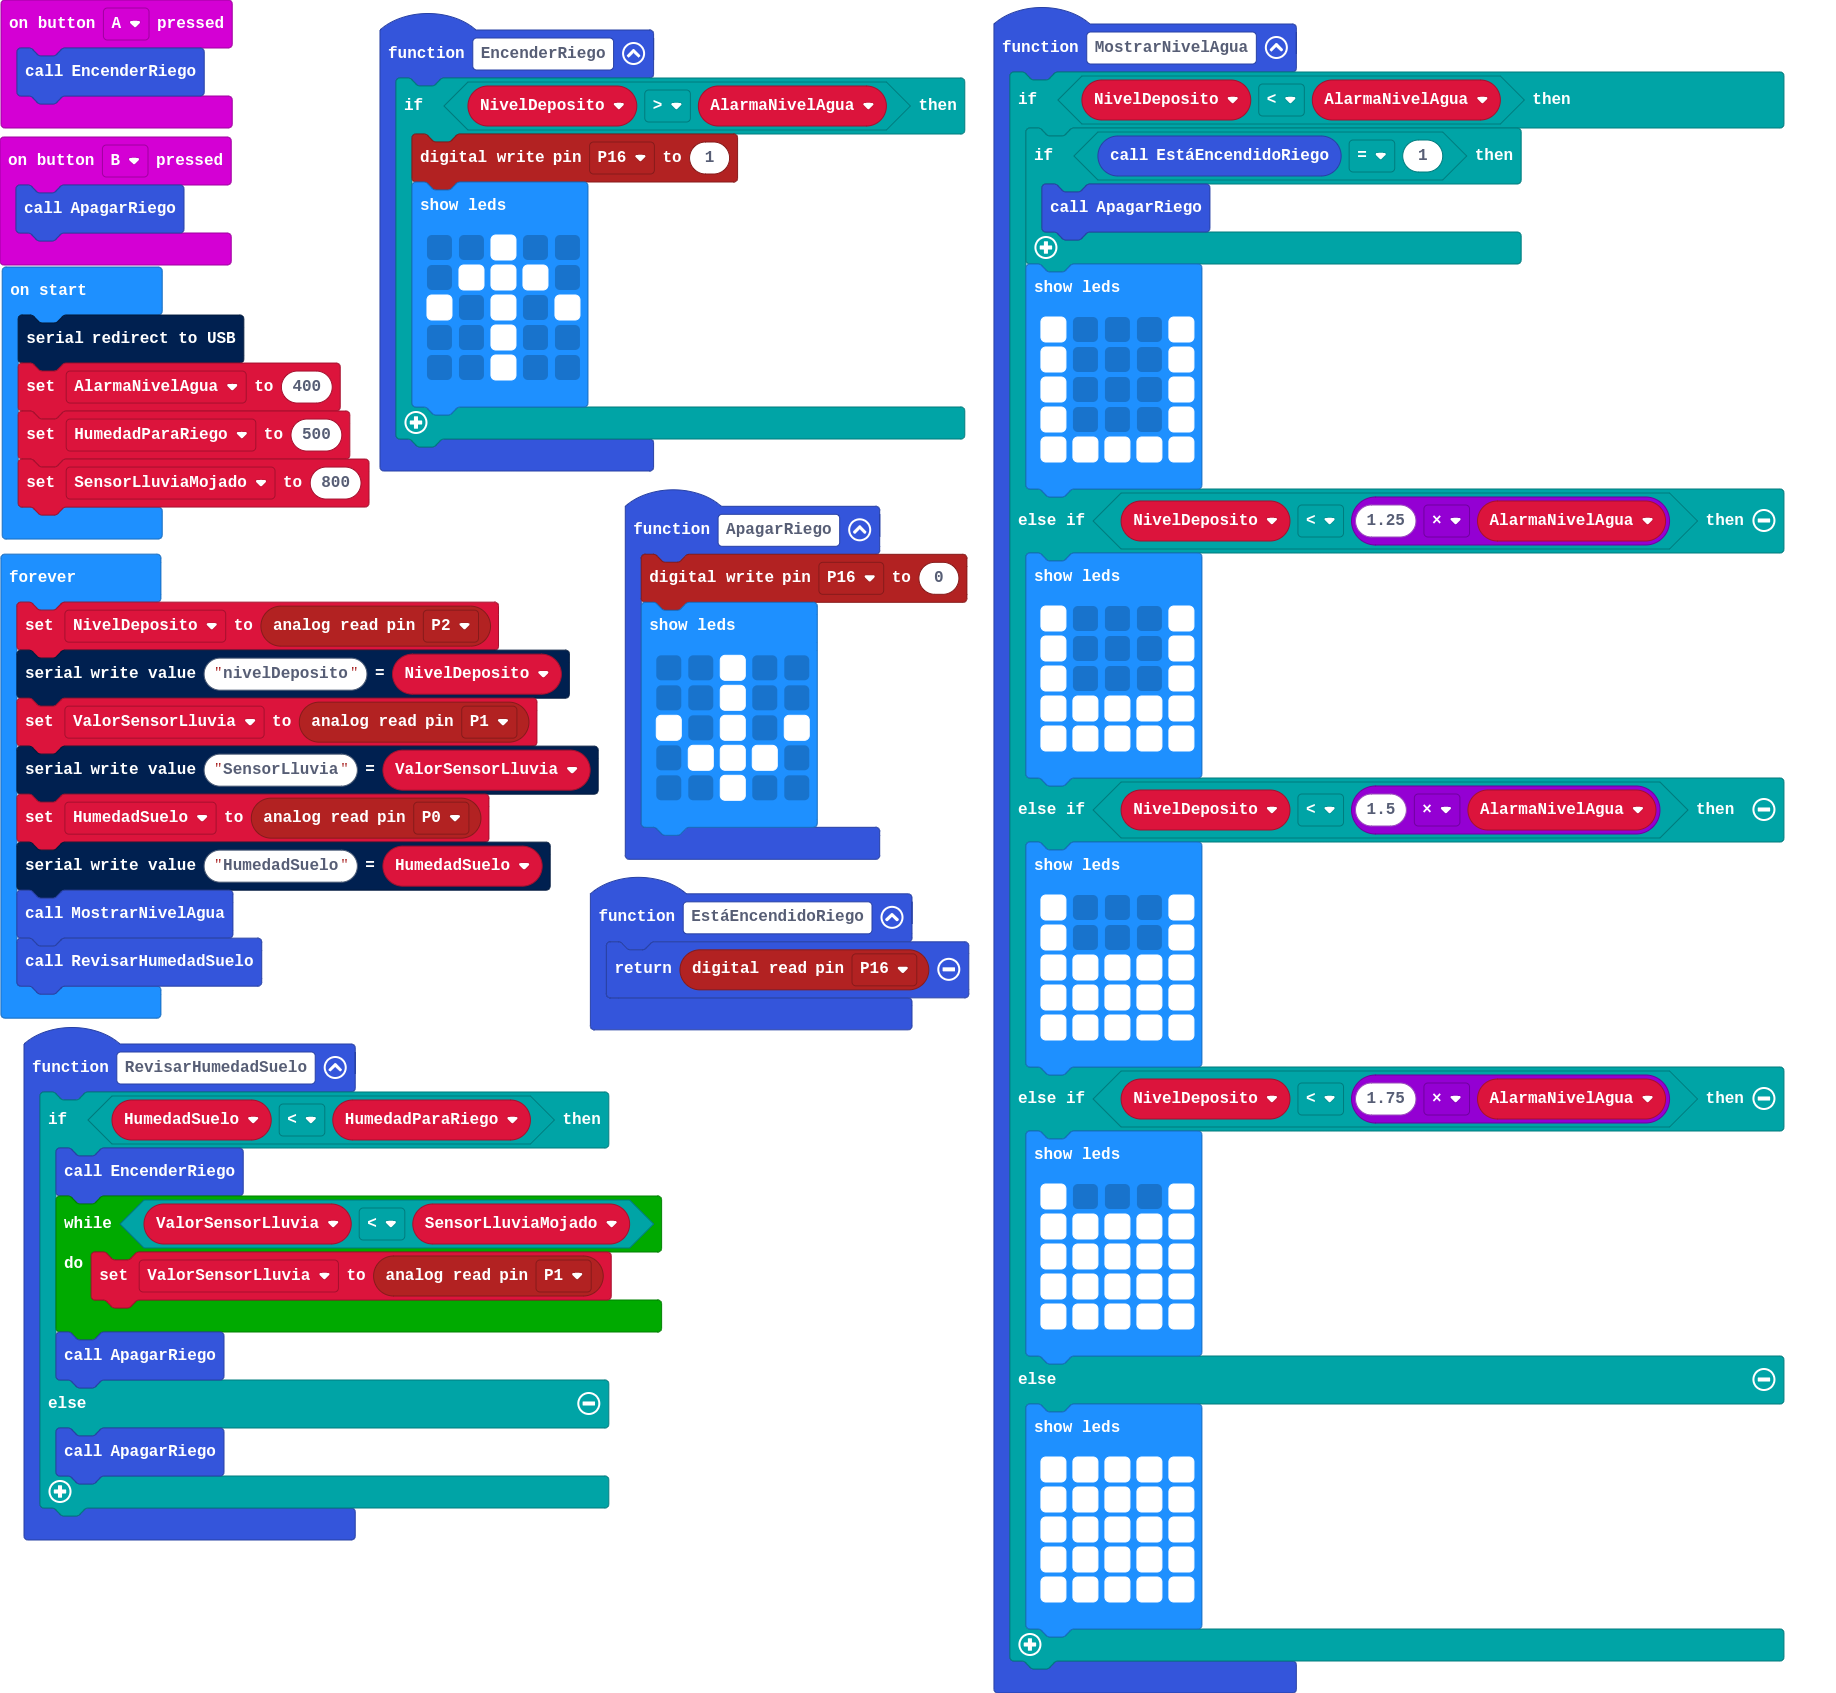
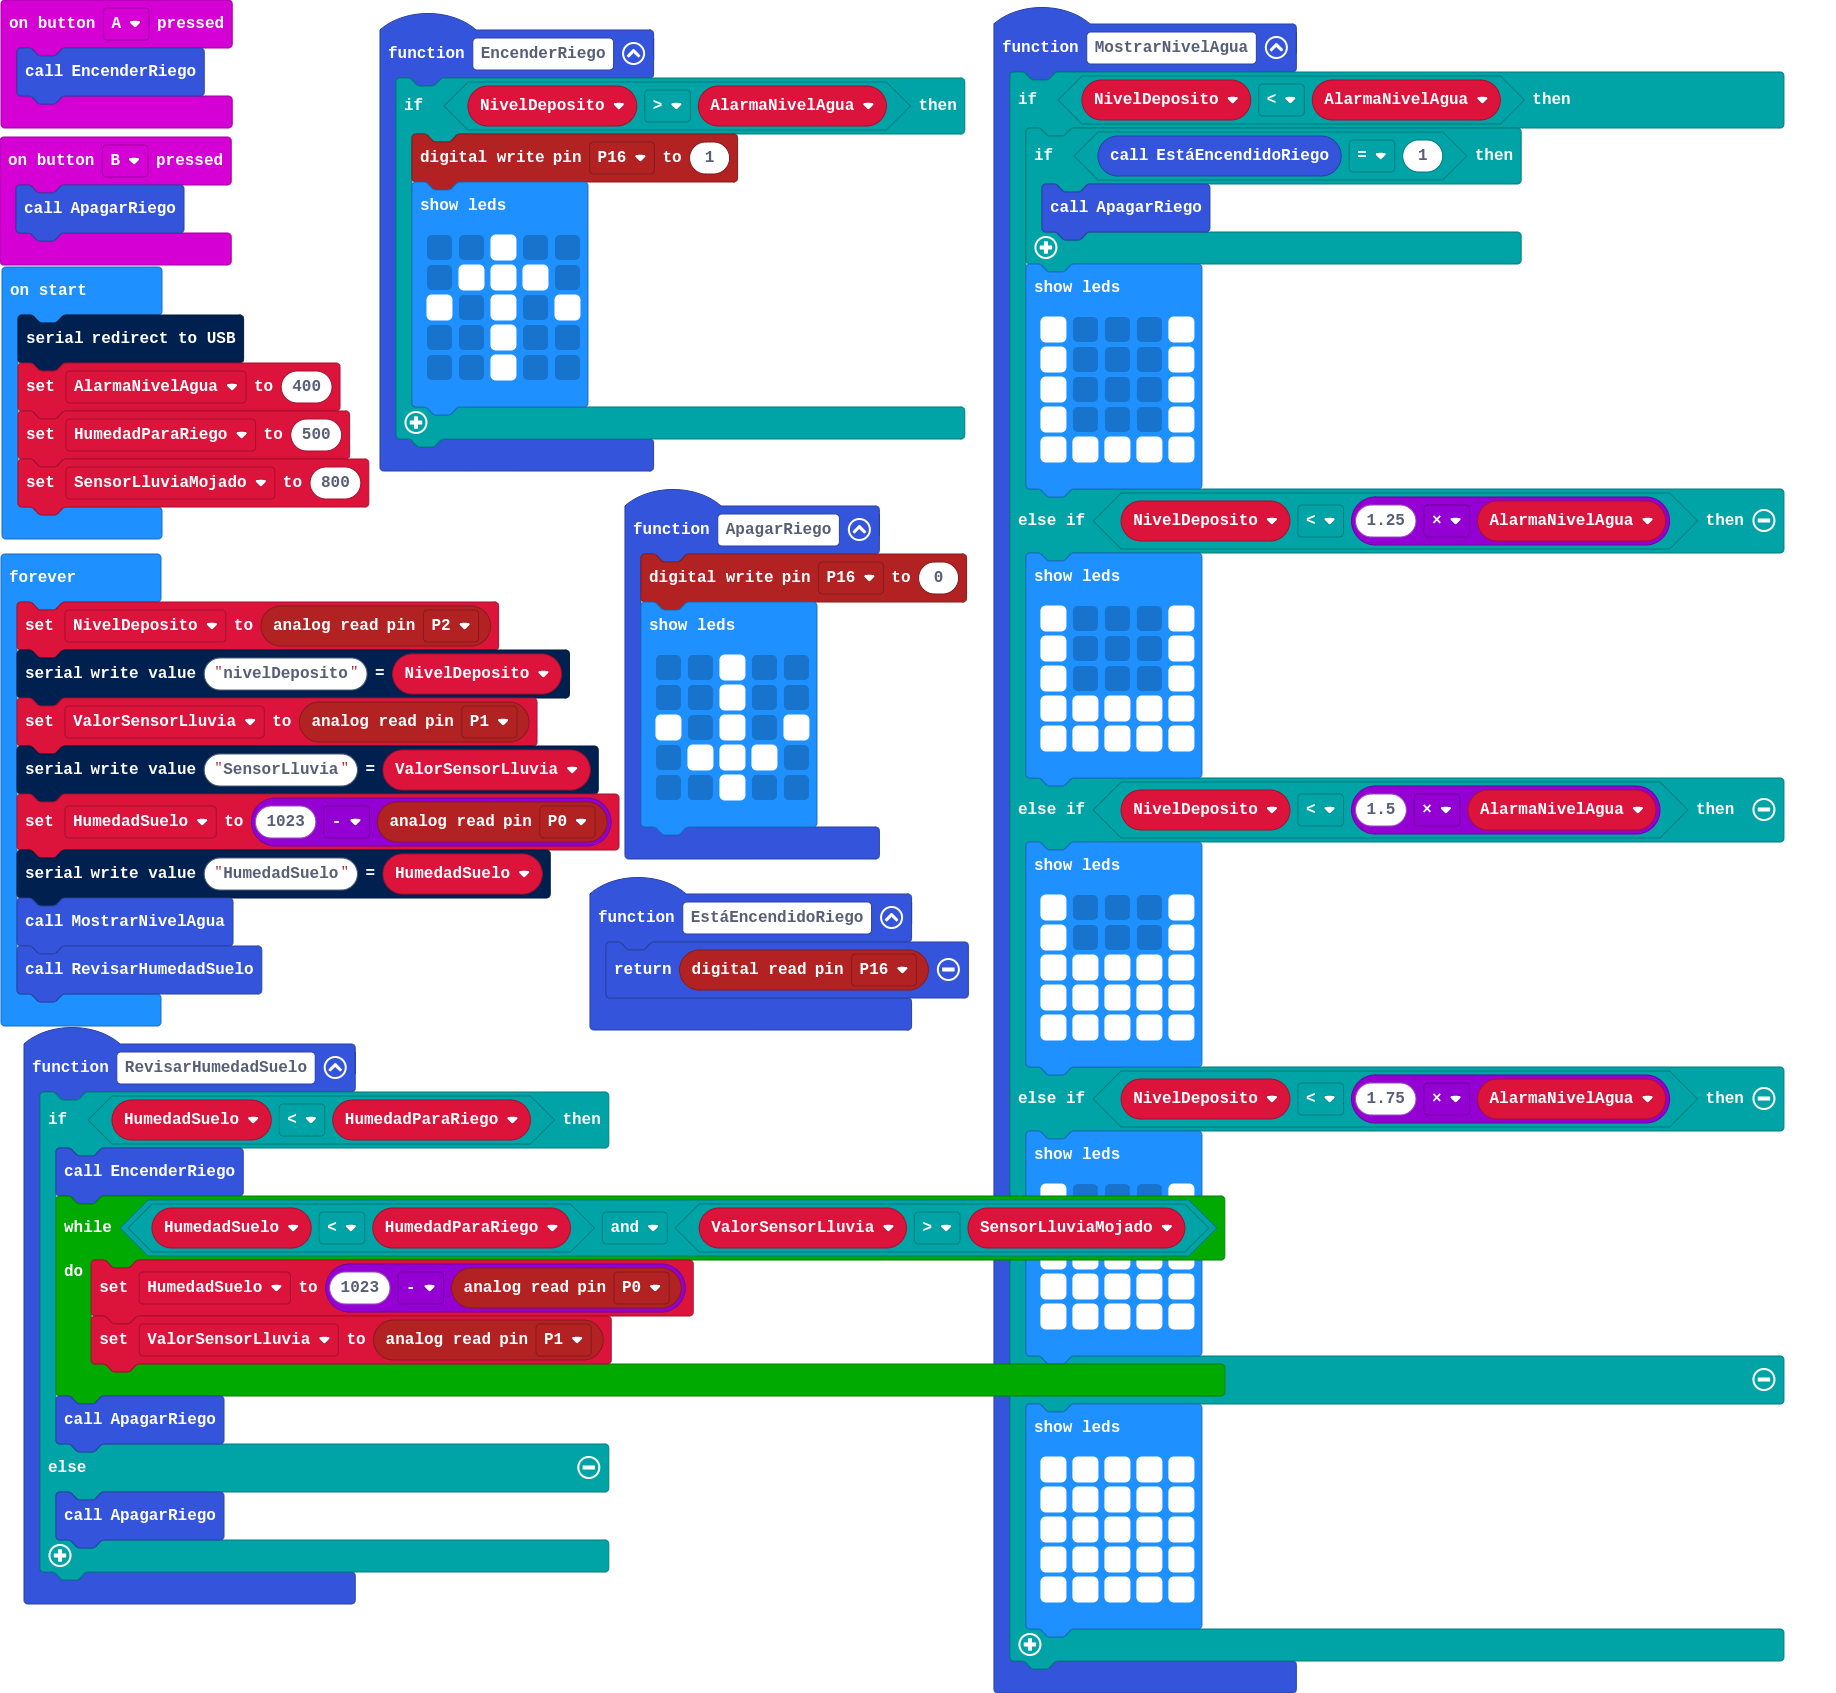
Ajuste de niveles

diff --git a/main.ts b/main.ts
@@ -78,7 +78,8 @@ input.onButtonPressed(Button.B, function () {
 function RevisarHumedadSuelo () {
     if (HumedadSuelo < HumedadParaRiego) {
         EncenderRiego()
-        while (ValorSensorLluvia < SensorLluviaMojado) {
+        while (HumedadSuelo < HumedadParaRiego && ValorSensorLluvia > SensorLluviaMojado) {
+            HumedadSuelo = 1023 - pins.analogReadPin(AnalogPin.P0)
             ValorSensorLluvia = pins.analogReadPin(AnalogPin.P1)
         }
         ApagarRiego()
@@ -101,7 +102,7 @@ basic.forever(function () {
     serial.writeValue("nivelDeposito", NivelDeposito)
     ValorSensorLluvia = pins.analogReadPin(AnalogPin.P1)
     serial.writeValue("SensorLluvia", ValorSensorLluvia)
-    HumedadSuelo = pins.analogReadPin(AnalogPin.P0)
+    HumedadSuelo = 1023 - pins.analogReadPin(AnalogPin.P0)
     serial.writeValue("HumedadSuelo", HumedadSuelo)
     MostrarNivelAgua()
     RevisarHumedadSuelo()
